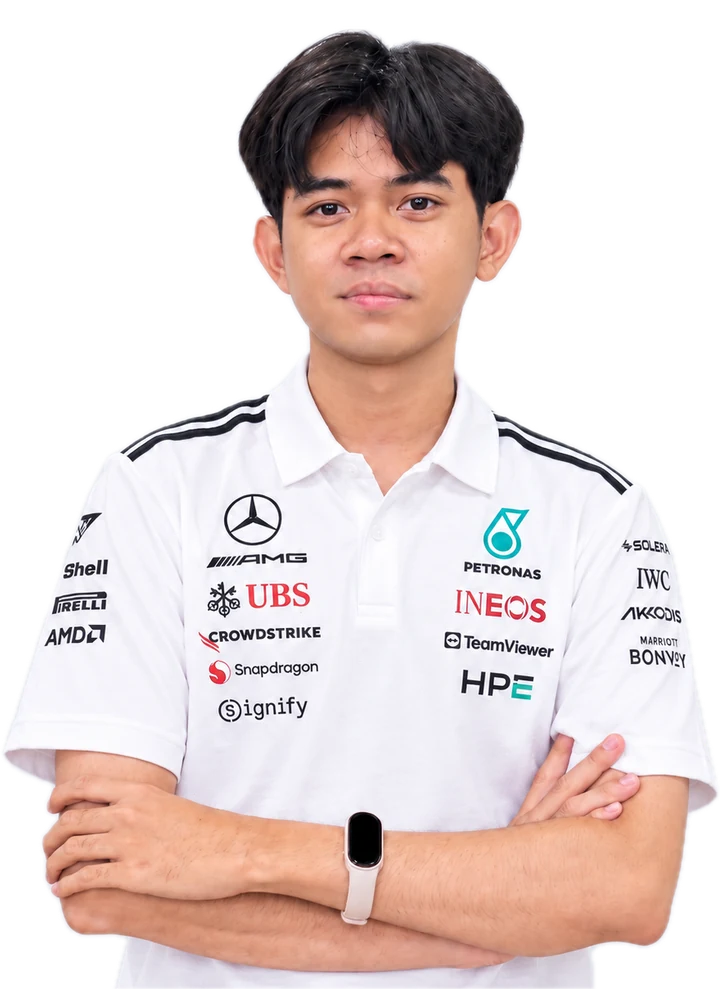
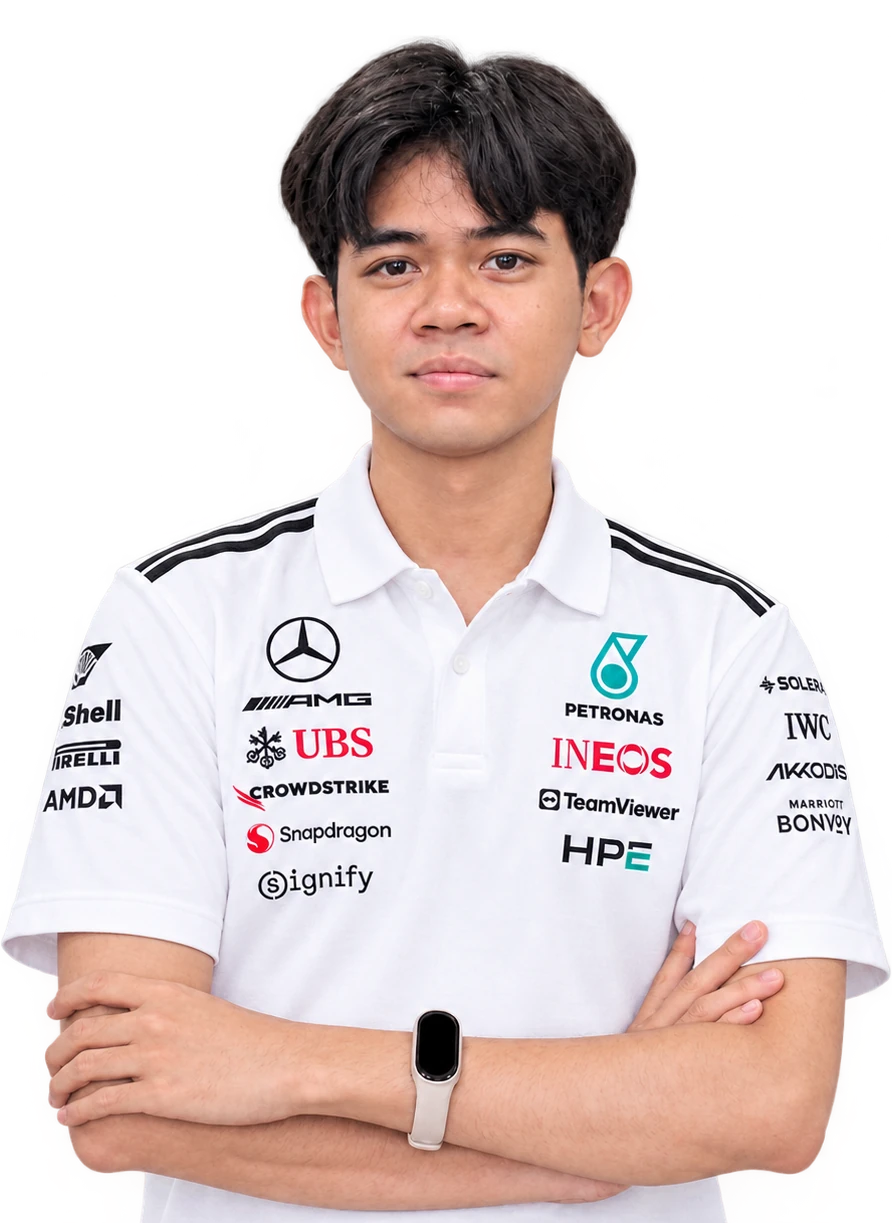
Replace profile photo with a clean transparent cut-out
The new source PNG is already transparent, so its hair and face edges
no longer carry a light fringe from the old grey backdrop.

diff --git a/index.html b/index.html
@@ -83,7 +83,7 @@
         <div class="actions"><a class="btn btn-primary" href="mailto:andreamicolaazwir@gmail.com">Email Andrea</a><a class="btn btn-ghost" href="https://drive.google.com/drive/folders/1Q4kjv-lI2VnSyq7tnrvOto9_072R69jJ?usp=sharing" target="_blank" rel="noopener noreferrer">View my CV <svg class="ui-icon" viewBox="0 0 24 24" fill="none" stroke="currentColor" stroke-width="1.7" stroke-linecap="round" stroke-linejoin="round" aria-hidden="true" focusable="false"><path d="M7 17 17 7M8 7h9v9"/></svg></a></div>
         <dl class="facts"><div><dt>Education</dt><dd>Informatics, ’24</dd></div><div><dt>GPA</dt><dd>3.74 / 4.00</dd></div><div><dt>Based in</dt><dd>Medan, ID</dd></div></dl>
       </div>
-      <img src="assets/images/profil-2026.webp" alt="Andrea Micola Azwir" class="profile-figure" width="720" height="989">
+      <img src="assets/images/profil-2026.webp" alt="Andrea Micola Azwir" class="profile-figure" width="892" height="1223">
     </div>
     <div class="profile-body">
       <section class="block reveal block-about" id="about" aria-labelledby="about-title">
